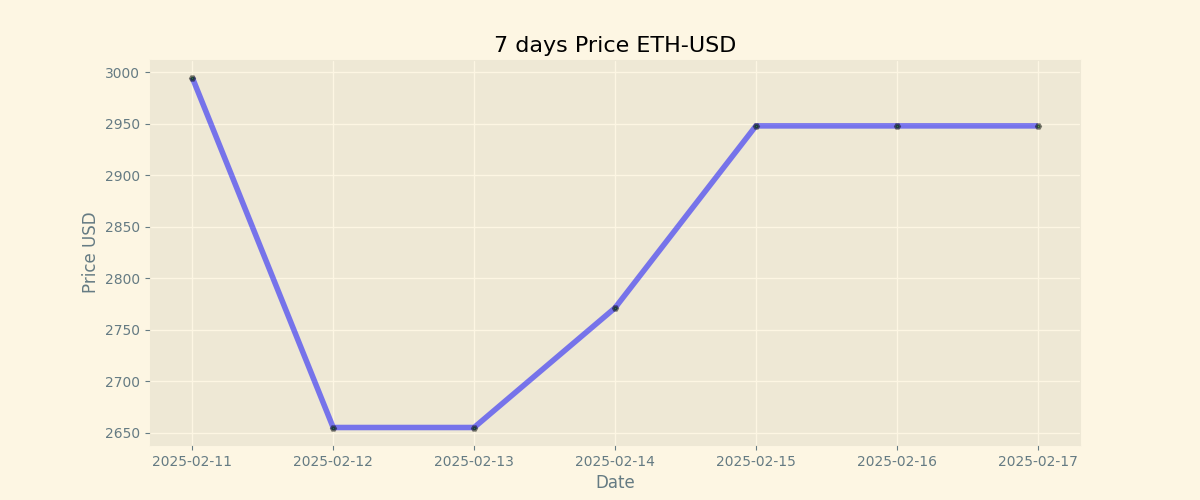
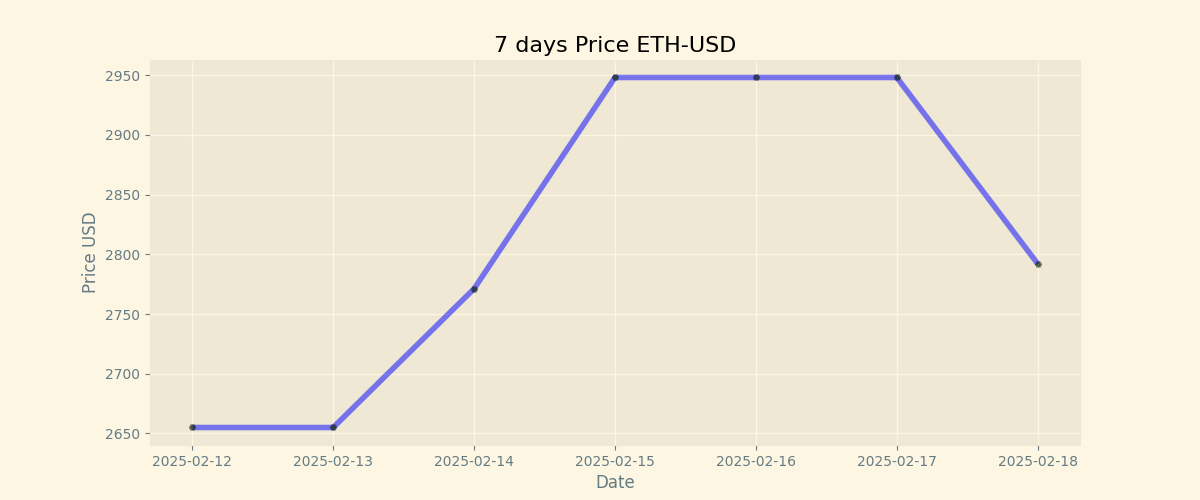
Duty Updates 2025-02-18

diff --git a/README.md b/README.md
@@ -9,8 +9,8 @@
 
 | Currency | Price           |
 | -------- | --------------- |
-| **BTC**  | **$ 97059.97** |
-| **ETH**  | **$ 2947.99** |
+| **BTC**  | **$ 99000.0** |
+| **ETH**  | **$ 2792.0** |
 
 ## BTC chart
 
